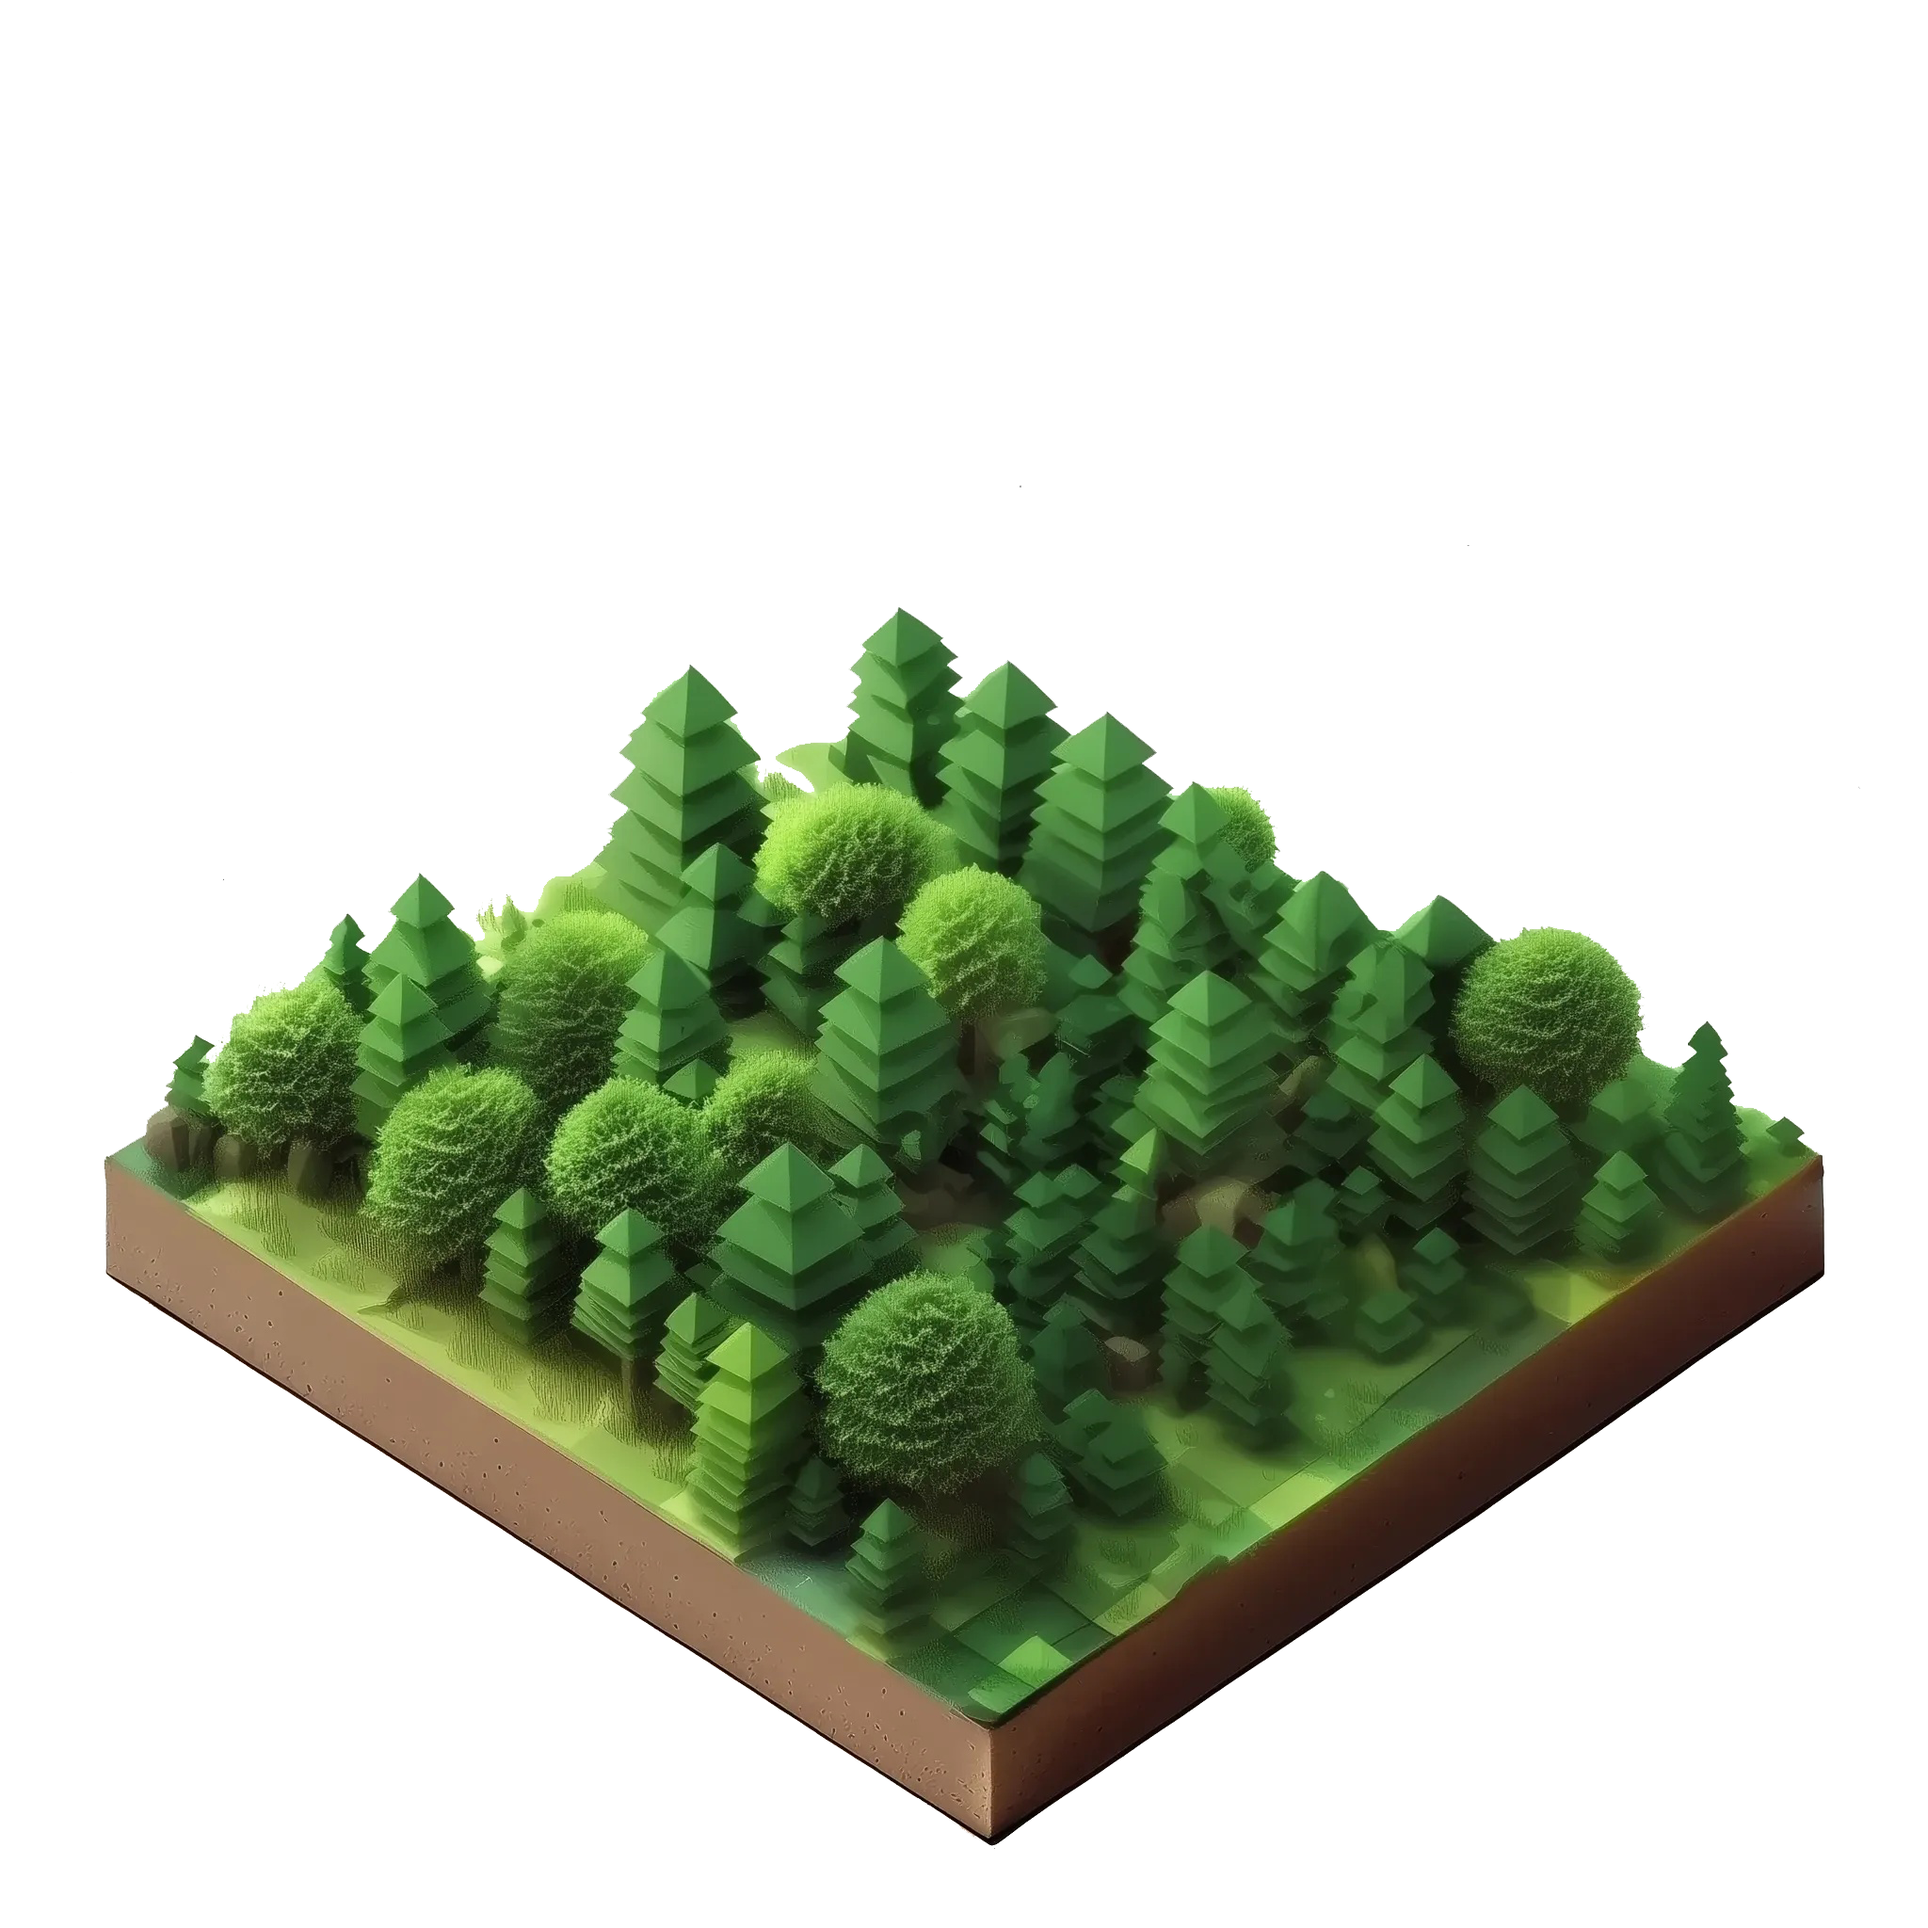
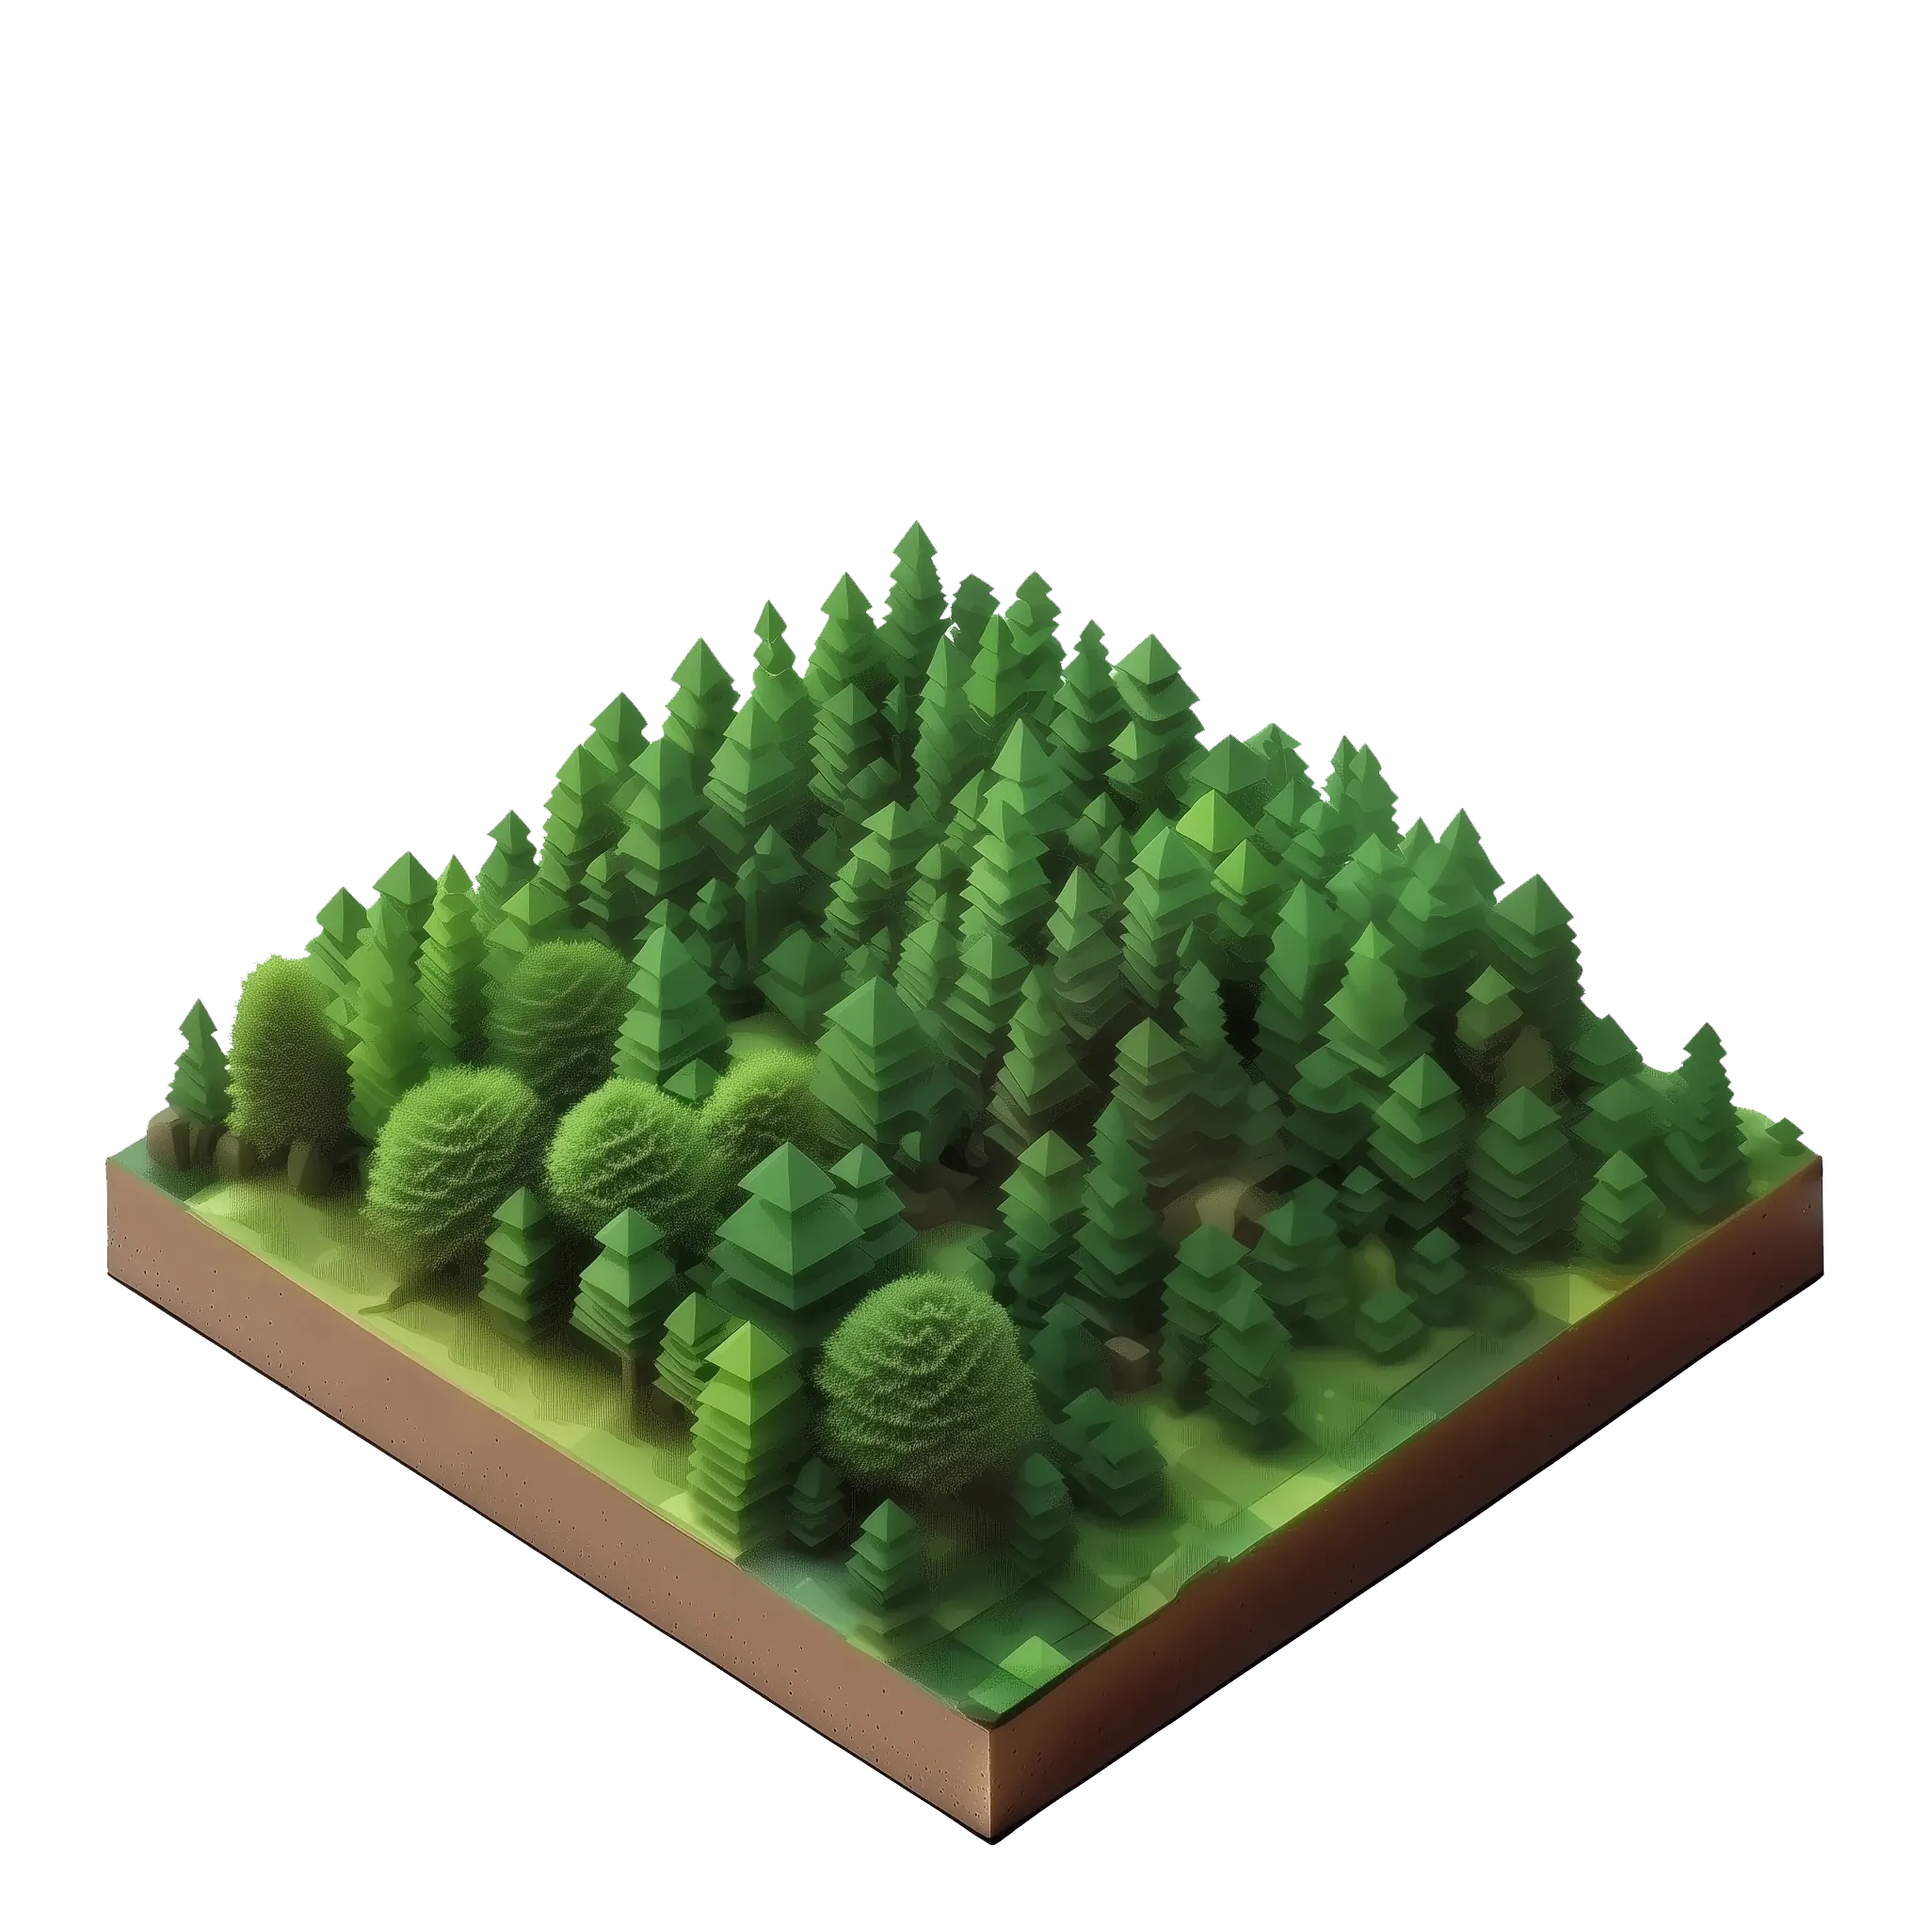
clickable forest

Changed region(s): [[0.0938, 0.25, 0.875, 0.7812], [0.4062, 0.6562, 0.5312, 0.7812]]

diff --git a/packages/nextjs/app/page.tsx b/packages/nextjs/app/page.tsx
@@ -5,60 +5,129 @@ import Image from "next/image";
 import type { NextPage } from "next";
 
 // Define types
-type TileType = "dirt.png" | "grass.png" | "grass2.png" | "forest.png";
+type TileType = string;
 type GridType = TileType[][];
 
 const Home: NextPage = () => {
   // === Adjustable Constants ===
-  const TILE_SIZE = 256; // Base tile size
+  const TILE_SIZE = 512; // Base tile size
   const TILE_SCALE = 1; // Zoom level
 
   // === Fine-Tuning Between Tiles ===
-  const TILE_HORIZONTAL_ADJUST = -15; // Base horizontal spacing
-  const TILE_VERTICAL_ADJUST = 12; // Base vertical spacing
+  const TILE_HORIZONTAL_ADJUST = -30; // Base horizontal spacing
+  const TILE_VERTICAL_ADJUST = 25; // Base vertical spacing
 
   // === Progressive Drift Correction ===
-  const HORIZONTAL_DRIFT_CORRECTION = 7; // Corrects horizontal drift
+  const HORIZONTAL_DRIFT_CORRECTION = 10; // Corrects horizontal drift
   const VERTICAL_DRIFT_CORRECTION = 2; // (Optional) Corrects vertical drift if needed
 
   // === Map Position Offset ===
-  const OFFSET_X = -100; // Shifts the entire map left/right
-  const OFFSET_Y = -800; // Shifts the entire map up/down
+  const [mapOffset, setMapOffset] = useState({ x: -300, y: -1200 }); // Replace static OFFSET_X/Y with state
 
   // Computed tile size
   const TILE_WIDTH = TILE_SIZE * TILE_SCALE;
   const TILE_HEIGHT = TILE_WIDTH / 2;
 
   // Define possible tiles
-  const tiles: TileType[] = ["dirt.png", "grass.png", "grass2.png", "forest.png"];
+  const tiles: TileType[] = ["dirt.png", "forest.png", "forest2.png", "forest3.png", "forest4.png"];
   const [grid, setGrid] = useState<GridType>([]);
 
-  // Generate a 10x10 grid of random tiles
-  const generateRandomGrid = (): GridType => {
-    const newGrid: GridType = [];
+  // Add these new state variables near the top with other state
+  const [isDragging, setIsDragging] = useState(false);
+  const [dragStart, setDragStart] = useState({ x: 0, y: 0 });
+  const [hasMoved, setHasMoved] = useState(false);
 
+  // Generate a grid of all forest tiles
+  const generateInitialGrid = (): GridType => {
+    const newGrid: GridType = [];
     for (let i = 0; i < 10; i++) {
       const row: TileType[] = [];
       for (let j = 0; j < 10; j++) {
-        const randomTile = tiles[Math.floor(Math.random() * tiles.length)];
-        row.push(randomTile);
+        // Randomly select one of the forest tiles (indices 1-4 in the tiles array)
+        const randomForestIndex = Math.floor(Math.random() * 4) + 1;
+        row.push(tiles[randomForestIndex]);
       }
       newGrid.push(row);
     }
-
     return newGrid;
+  };
+
+  // Add these new helper functions
+  const screenToIso = (screenX: number, screenY: number) => {
+    const rect = document.querySelector(".grid-container")?.getBoundingClientRect();
+    if (!rect) return null;
+
+    const relativeX = screenX - rect.left - mapOffset.x;
+    const relativeY = screenY - rect.top - mapOffset.y;
+
+    // Convert screen coordinates to isometric coordinates
+    const tileWidthHalf = TILE_WIDTH / 2 + TILE_HORIZONTAL_ADJUST;
+    const tileHeightHalf = TILE_HEIGHT / 2 + TILE_VERTICAL_ADJUST;
+
+    // Add small offsets to adjust the calculation
+    const x = (relativeX / tileWidthHalf + relativeY / tileHeightHalf) / 2 - 1; // Subtract 1 from x instead
+    const y = (relativeY / tileHeightHalf - relativeX / tileWidthHalf) / 2; // Keep y as is
+
+    return {
+      row: Math.floor(y),
+      col: Math.floor(x),
+    };
+  };
+
+  // Replace handleTileClick with this new click handler
+  const handleGridClick = (e: React.MouseEvent) => {
+    if (hasMoved) return; // Skip if this was a drag operation
+
+    const coords = screenToIso(e.clientX, e.clientY);
+    if (!coords) return;
+
+    const { row, col } = coords;
+
+    // Check if the calculated position is within grid bounds
+    if (row >= 0 && row < grid.length && col >= 0 && col < grid[0].length) {
+      const newGrid = [...grid];
+      newGrid[row][col] = "dirt.png";
+      setGrid(newGrid);
+    }
+  };
+
+  // Add these new handlers
+  const handleMouseDown = (e: React.MouseEvent) => {
+    setIsDragging(true);
+    setHasMoved(false); // Reset the move tracker
+    setDragStart({ x: e.clientX - mapOffset.x, y: e.clientY - mapOffset.y });
+  };
+
+  const handleMouseMove = (e: React.MouseEvent) => {
+    if (!isDragging) return;
+
+    setHasMoved(true); // User has moved while dragging
+    const newX = e.clientX - dragStart.x;
+    const newY = e.clientY - dragStart.y;
+    setMapOffset({ x: newX, y: newY });
+  };
+
+  const handleMouseUp = () => {
+    setIsDragging(false);
   };
 
   // Generate grid on component mount
   useEffect(() => {
-    const randomGrid = generateRandomGrid();
-    setGrid(randomGrid);
+    const initialGrid = generateInitialGrid();
+    setGrid(initialGrid);
   }, []);
 
   return (
     <>
       <div className="main-container">
-        <div className="grid-container">
+        <div
+          className="grid-container"
+          onClick={handleGridClick}
+          onMouseDown={handleMouseDown}
+          onMouseMove={handleMouseMove}
+          onMouseUp={handleMouseUp}
+          onMouseLeave={handleMouseUp}
+        >
           {grid.map((row, rowIndex) =>
             row.map((tile, colIndex) => (
               <div
@@ -68,12 +137,12 @@ const Home: NextPage = () => {
                   left: `${
                     (colIndex - rowIndex) * (TILE_WIDTH / 2 + TILE_HORIZONTAL_ADJUST) +
                     colIndex * HORIZONTAL_DRIFT_CORRECTION +
-                    OFFSET_X
+                    mapOffset.x
                   }px`,
                   top: `${
                     (colIndex + rowIndex) * (TILE_HEIGHT / 2 + TILE_VERTICAL_ADJUST) +
                     rowIndex * VERTICAL_DRIFT_CORRECTION +
-                    OFFSET_Y
+                    mapOffset.y
                   }px`,
                 }}
               >
@@ -83,6 +152,7 @@ const Home: NextPage = () => {
                   width={TILE_WIDTH}
                   height={TILE_HEIGHT}
                   className="tile-image"
+                  draggable={false}
                 />
               </div>
             )),
@@ -105,6 +175,7 @@ const Home: NextPage = () => {
         /* Grid container */
         .grid-container {
           position: relative;
+          user-select: none; /* Prevent text selection while dragging */
         }
 
         /* Tile positioning */
@@ -112,12 +183,14 @@ const Home: NextPage = () => {
           position: absolute;
           width: ${TILE_WIDTH}px;
           height: ${TILE_HEIGHT}px;
+          cursor: pointer;
         }
 
         .tile-image {
           width: 100%;
           height: 100%;
           object-fit: cover;
+          pointer-events: none;
         }
       `}</style>
     </>
